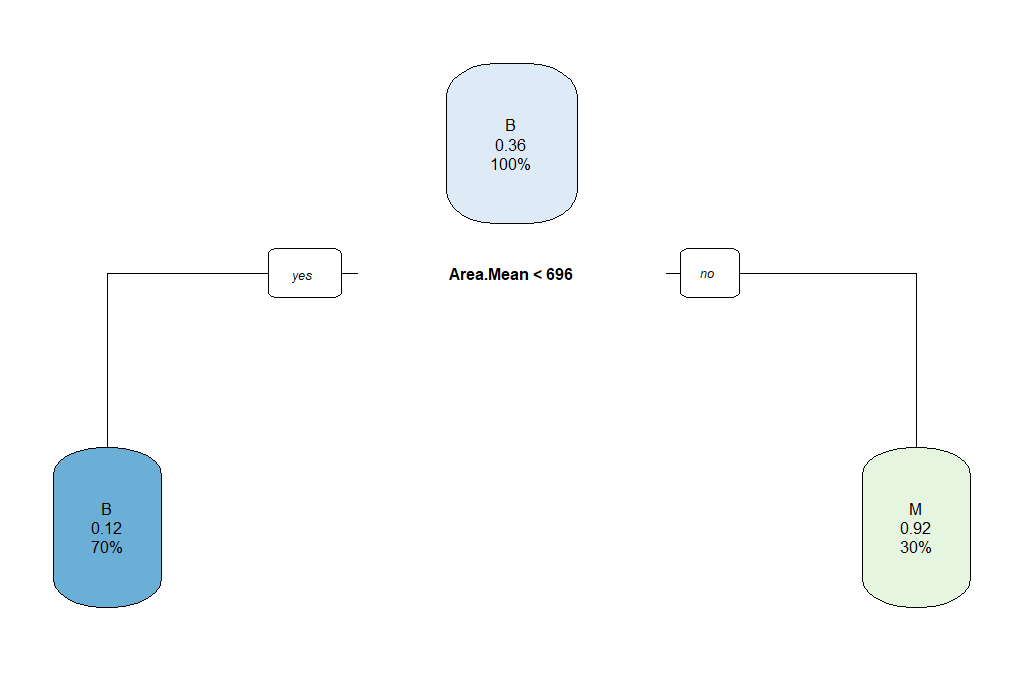
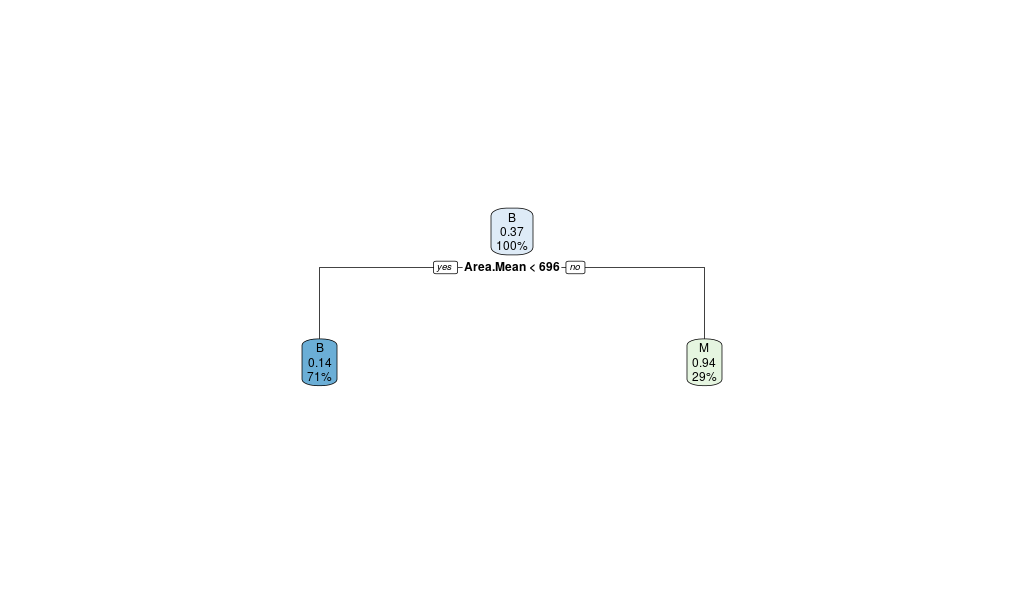
ep05 - done single decision trees

diff --git a/episodes/05-supervised-learning-classification.md b/episodes/05-supervised-learning-classification.md
@@ -1,6 +1,6 @@
 [Go to main page](../README.md)
 
-## Supervised Learning 
+# Supervised Learning : classification
 
 Supervised learning is the branch of Machine Learning (ML) that involves predicting labels, such as 'Survived' or 'Not'. Such models learn from labelled data, which is data that includes whether a passenger survived (called "model training"), and then predict on unlabeled data.
 
@@ -10,7 +10,13 @@ These are generally called train and test sets because
 
 We can then calculate the percentage that you got correct: this is known as the accuracy of your model.
 
-### How To Start with Supervised Learning
+## Table of Content <a id="toc"></a>
+
+ 1. [our first classifier : Decision trees](#dt1)
+
+[back to ToC](#toc)
+
+## How To Start with Supervised Learning
 
 As you might already know, a good way to approach supervised learning is the following:
 - Perform an Exploratory Data Analysis (EDA) on your data set;
@@ -21,8 +27,6 @@ As you might already know, a good way to approach supervised learning is the fol
 
 A common practice in all supervised learning is the construction and use of the **train- and test- datasets**. This process takes all of the input randomly splits into the two datasets (training and test); the ratio of the split is usually up to the researcher, and can be anything: 80/20, 70/30, 60/40...
 
-## Supervised Learning I: classification
-
 There are various classifiers available:
 
 - **Decision Trees** – These are organized in the form of sets of questions and answers in the tree structure.
@@ -30,7 +34,14 @@ There are various classifiers available:
 - **K-NN Classifiers** – Based on the similarity measures like distance, it classifies new cases.
 - **Support Vector Machines** – It is a non-probabilistic binary linear classifier that builds a model to classify a case into one of the two categories.
 
-### Decision trees
+
+We will mostly focus on decisions trees for now, to explore and experiment core concepts of the classification pipeline in Machine Learning. 
+
+Once these concepts are well understood, it is actually relatively easy to apply them to more and more algorithms.
+
+[back to ToC](#toc)
+
+## 1. our first classifier : Decision trees <a id='dt1'></a>
 
 It is a type of supervised learning algorithm. We use it for classification problems. It works for both types of input and output variables. In this technique, we split the population into two or more homogeneous sets. Moreover, it is based on the most significant splitter/differentiator in input variables.
 
@@ -42,17 +53,33 @@ There are two types of decision trees:
 
 Regression trees are used when the dependent variable is continuous while classification trees are used when the dependent variable is categorical. In continuous, a value obtained is a mean response of observation. In classification, a value obtained by a terminal node is a mode of observations.
 
+The main advantages of the decision tree is :
+ * **no need to scale your data**
+ * ability to do **non-linear** classification
+ * resulting models are **easy to interpret**
+
+
 Here, we will use the `rpart` and the `rpart.plot` package in order to produce and visualize a decision tree. First of all, we'll create the train and test datasets using a 70/30 ratio and a fixed seed so that we can reproduce the results.
 
 ```r
 # split into training and test subsets
+library(caret)
 set.seed(1000)
-ind <- sample(2, nrow(breastCancerData), replace=TRUE, prob=c(0.7, 0.3))
-breastCancerData.train <- breastCancerDataNoID[ind==1,]
-breastCancerData.test <- breastCancerDataNoID[ind==2,]
+inTraining <- createDataPartition(breastCancerData$Diagnosis, p = .70, list = FALSE)
+breastCancerData.train <- breastCancerDataNoID[ inTraining,]
+breastCancerData.test  <- breastCancerDataNoID[-inTraining,]
+
 ```
 
-Now, we will load the library and create our model. We would like to create a model that predicts the `Diagnosis` based on the mean of the radius and the area, as well as the SE of the texture. For ths reason we'll use the notation of `myFormula <- Diagnosis ~ Radius.Mean + Area.Mean + Texture.SE`. If we wanted to create a prediction model based on all variables, we will have used `myFormula <- Diagnosis ~ .` instead. Finally, `minsplit` stands for the the minimum number of instances in a node so that it is split.
+Now, we will load the library and create our model. We would like to create a model that predicts the `Diagnosis` based on the mean of the radius and the area, as well as the SE of the texture. For ths reason we'll use the notation of `myFormula <- Diagnosis ~ Radius.Mean + Area.Mean + Texture.SE`. If we wanted to create a prediction model based on all variables, we will have used `myFormula <- Diagnosis ~ .` instead. 
+
+The decision tree algorithm comes with a number of parameters which reflect the following aspects of the model:
+- `minsplit`: the minimum number of instances in a node so that it is split
+- `minbucket`: the minimum allowed number of instances in each leaf of the tree
+- `maxdepth`: the maximum depth of the tree
+- `cp`: parameter that controls the complexity for a split and is set intuitively (the larger its value, the more probable to apply pruning to the tree)
+
+These parameters of the methods which are not set directly from our data itself are called **hyper-parameters**.
 
 ```r
 library(rpart)
@@ -69,29 +96,40 @@ breastCancerData.model <- rpart(myFormula,
 
 print(breastCancerData.model$cptable)
 rpart.plot(breastCancerData.model)
+
 ```
 
 We see the following output and a figure:
 
-```
-      CP       nsplit rel error   xerror     xstd
-1  0.69930070      0 1.0000000 1.0000000 0.06688883
-2  0.02797203      1 0.3006993 0.3006993 0.04330166
-3  0.00000000      2 0.2727273 0.3006993 0.04330166
-4 -1.00000000      6 0.2727273 0.3006993 0.04330166
-```
-
 ![Full decision tree](https://raw.githubusercontent.com/fpsom/2021-06-ml-elixir-fr/main/static/images/decisionTreeFull.png "Full decision tree")
 
-The parameters that we used reflect the following aspects of the model:
-- `minsplit`: the minimum number of instances in a node so that it is split
-- `minbucket`: the minimum allowed number of instances in each leaf of the tree
-- `maxdepth`: the maximum depth of the tree
-- `cp`: parameter that controls the complexity for a split and is set intuitively (the larger its value, the more probable to apply pruning to the tree)
+```
+           CP nsplit rel error    xerror       xstd
+1  0.69127517      0 1.0000000 1.0000000 0.06484708
+2  0.02013423      1 0.3087248 0.3087248 0.04281476
+3  0.00000000      2 0.2885906 0.3154362 0.04321630
+4 -1.00000000      6 0.2885906 0.3154362 0.04321630
+```
 
-As we can observe, this might not be the best model. So we can select the tree with the minimum prediction error:
+Here, you can see that different values of `CP` have been explored. 
+Interestingly, each value tested are associated with :
+ * `rel error` : relative error
+ * `xerror` : cross-validation error (`rpart` does a 10-fold cross validation without telling you, how nice!)
+
+As we can observe, the value with the lowest relative error (CP: -1), does not correspond to the value with the lowest cross-validation error (CP:0.2013423)
+
+_Question_: **Why is that? Which one should we try to optimize?**
+
+<br>
+
+---
+
+<br>
+
+Let's select the tree with the minimum prediction error:
 
 ```r
+errorType = "xerror" # would you choose "rel error" or "xerror" ?
 opt <- which.min(breastCancerData.model$cptable[, "xerror"])
 cp <- breastCancerData.model$cptable[opt, "CP"]
 # prune tree
@@ -100,6 +138,7 @@ breastCancerData.pruned.model <- prune(breastCancerData.model, cp = cp)
 rpart.plot(breastCancerData.pruned.model)
 
 table(predict(breastCancerData.pruned.model, type="class"), breastCancerData.train$Diagnosis)
+
 ```
 
 The output now is the following Confusion Matrix and pruned tree:
@@ -114,7 +153,15 @@ M   9   109
 
 _Question: **What does the above "Confusion Matrix" tells you?**_
 
-Now that we have a model, we should check how the prediction works in our test dataset.
+
+So when it increases the CP parameter's effect will reduce the performance on the train set (`rel error`), but limit the amount of error done on new data (`xerror`).
+In other words, it can help avoid **overfitting** of the model. In a sense it is a **regularization parameter**.
+
+Regularization is a double edged sword:
+ * **too little regularization** : overfitting on the train set, bad performance on new data (eg. test set)
+ * **too much regularization** : bad performance overall
+
+Anyway, now that we have a model, we should check how the prediction works in our test dataset.
 
 
 ```r
@@ -130,16 +177,20 @@ The new Confusion Matrix is the following:
 
 ```
 BreastCancer_pred   B   M
-                B 102  16
-                M   1  53
+                B 104  11
+                M   3  52
 ```
 
 ![Prediction Plot](https://raw.githubusercontent.com/fpsom/2021-06-ml-elixir-fr/main/static/images/predictionPlot.png "Prediction Plot")
 
 | **Exercises**  |   |
 |--------|----------|
-| 1 | Can we improve the above model? What are the key parameters that have the most impact?|
+| 1 | Can we improve the above model? What are the key hyperparameters that have the most impact?|
 | 2 | We have been using only some of the variables in our model. What is the impact of using all variables / features for our prediction? Is this a good or a bad plan?|
+
+
+
+
 
 ### Random Forests
 
